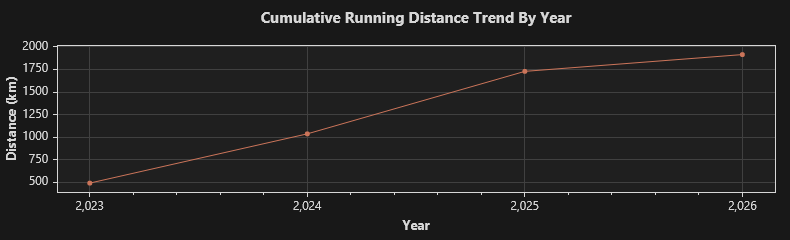
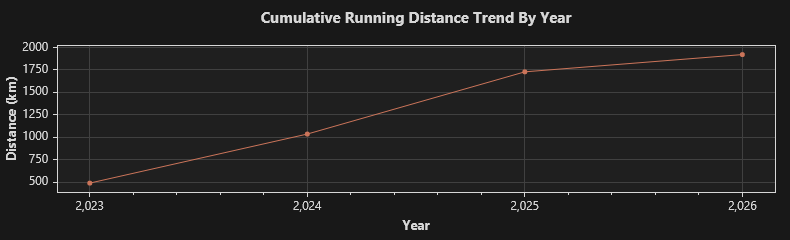
2026/4/24 跑步 6.01 公里

diff --git a/trend.md b/trend.md
@@ -1,4 +1,4 @@
-### Total: 327 days, 1914.64 km.
+### Total: 328 days, 1920.65 km.
 
 
 ![Monthly](https://github.com/prime167/MyRunningLog/blob/main/data/CumulativeTrendByMonth.png)
